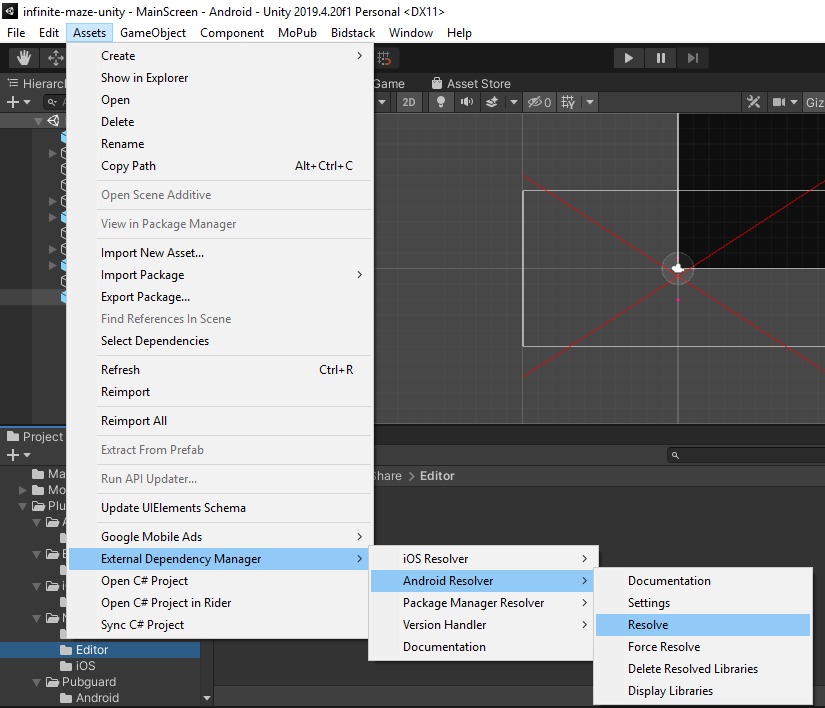
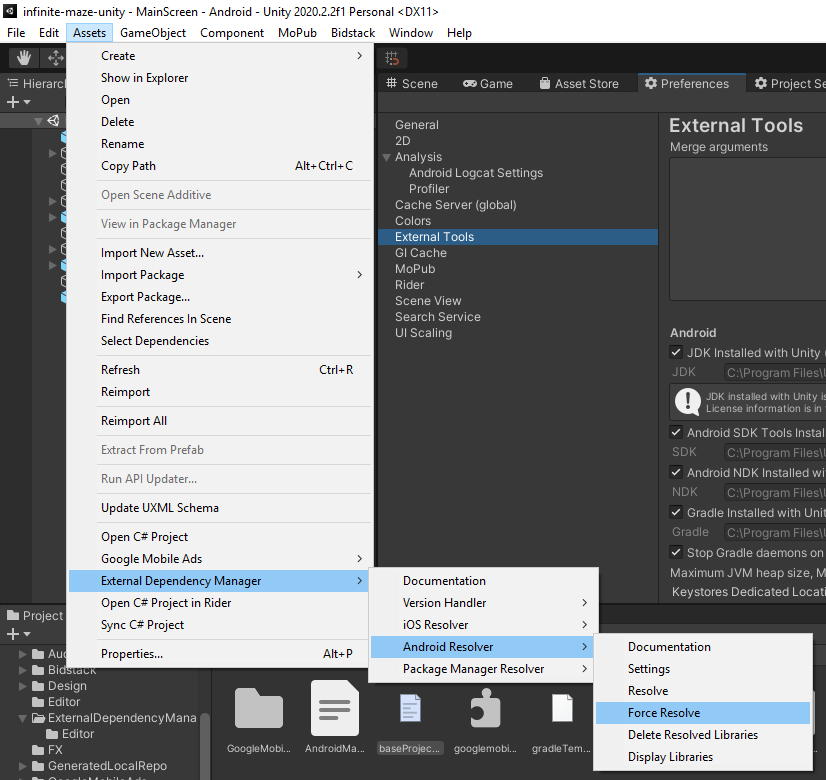
Updated ProGuard section, changed resolve to force resolve

diff --git a/README.md b/README.md
@@ -156,12 +156,24 @@ public class MyApplication extends Application {
 
 ## R8 / ProGuard
 
+If you use Pubguard as a dependency in an Android project which uses R8 as a default compiler you don’t have to do anything and you can skip this section. All rules are already bundled into AAR which can be interpreted by R8 automatically. 
+However, if you don't use R8, you will need to follow the next steps:
+
 Please keep all classes that are related to the ad network, that you use.
 
 <details>
   <summary>Click to expand example</summary>
 
 ```
+-keep class com.facebook.ads.** { *; }
+-dontwarn com.facebook.ads.**
+
+-keep class com.vungle.** {*; }
+-dontwarn com.vungle.**
+
+-keep class com.unity3d.ads.** { *; }
+-dontwarn com.unity3d.ads.**
+
 -keep class tv.teads.** { *; }
 -dontwarn tv.teads.**
 
@@ -184,15 +196,22 @@ Please keep all classes that are related to the ad network, that you use.
 -dontwarn com.inmobi.**
 
 -keep class com.rfm.** { *; }
+-dontwarn com.rfm.**
 
 -keep class com.amazon.** { *; }
+-dontwarn com.amazon.**
 
 -keep class com.millennialmedia.** { *; }
+-dontwarn com.millennialmedia.**
+
+-keep class com.ironsource.** { *; }
+-dontwarn com.ironsource.**
 
 -keep class com.mopub.** { *; }
 -dontwarn com.mopub.**
 
 -keep class com.google.android.gms.** { *; }
+-dontwarn com.google.android.gms.**
 
 -keep class com.openx.** { *; }
 -dontwarn com.openx.**
@@ -202,6 +221,9 @@ Please keep all classes that are related to the ad network, that you use.
 
 -keep class com.verizon.ads** { *; }
 -dontwarn com.verizon.ads.**
+
+-keep class com.smaato.sdk.** { *;}
+-dontwarn com.smaato.sdk.**
 ```
 
 </details>
@@ -251,7 +273,7 @@ Pubguard Unity Plugin uses External Dependency Manager for Unity to resolve depe
 
 ![Google Version Handler](images/google-version-handler.png)
 
-In the Unity editor, select **Assets > External Dependency Manager > Android Resolver > Resolve** (If you make any changes which affect Android dependencies, then run Resolver again)
+In the Unity editor, select **Assets > External Dependency Manager > Android Resolver > Force Resolve** (If you make any changes which affect Android dependencies, then run Resolver again)
 
 ![Android Resolver](images/android-resolver.png)
 
